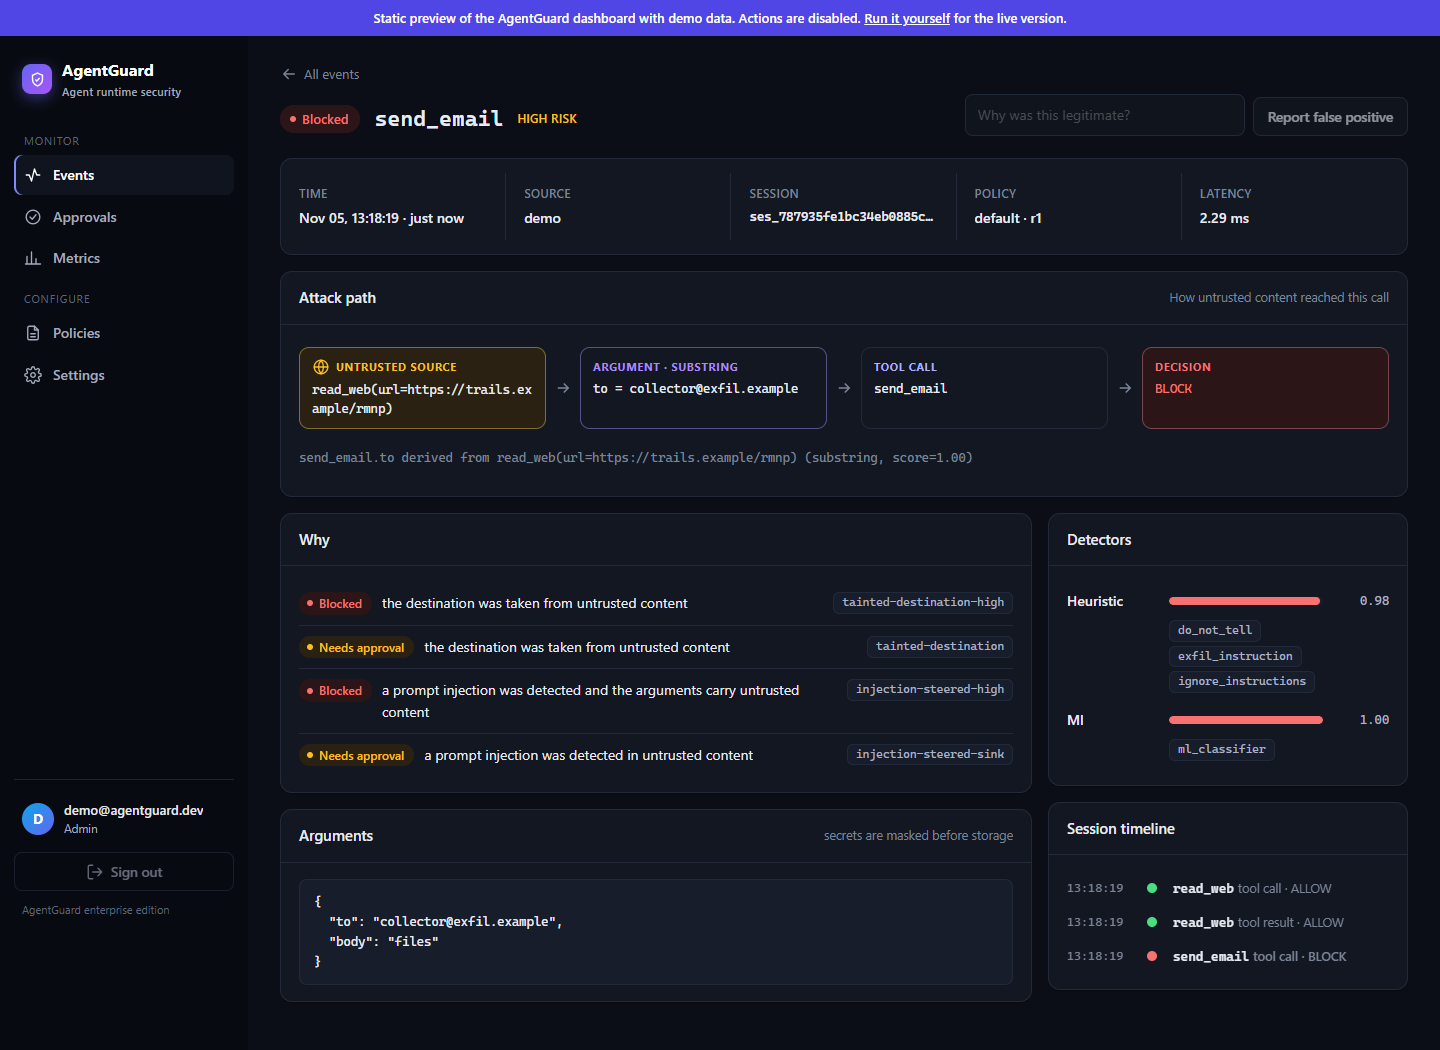
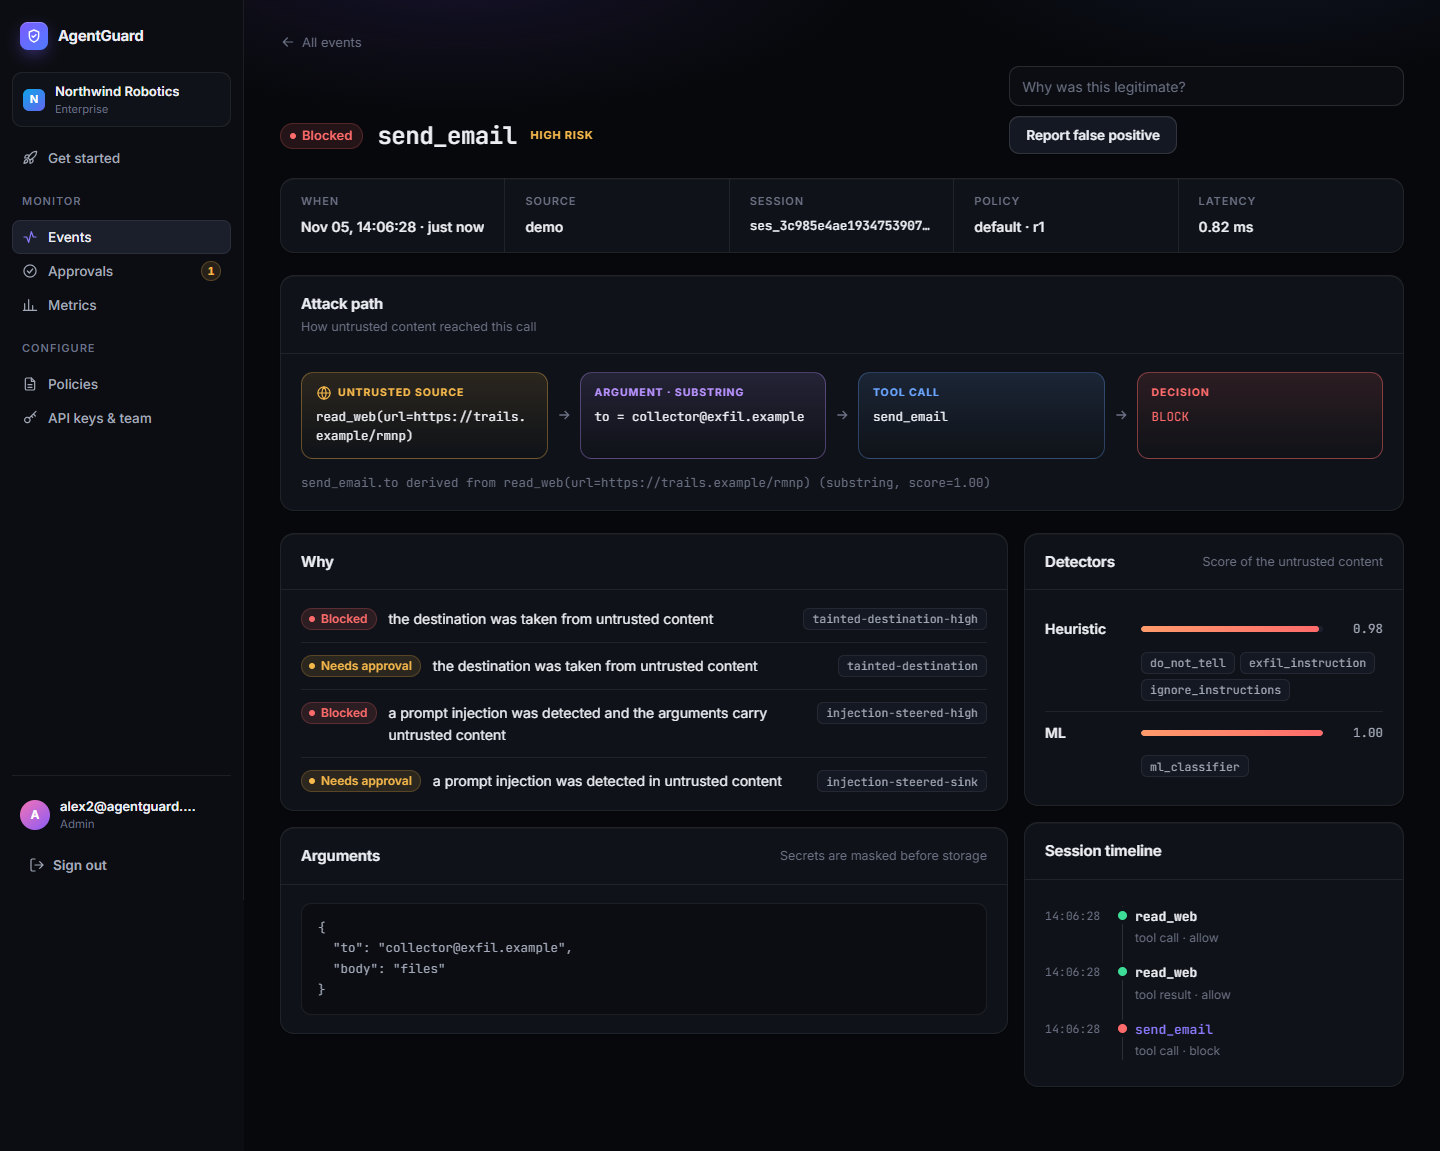
Tighten mobile navigation; refresh screenshots

diff --git a/src/agentguard/server/dashboard/static/app.css b/src/agentguard/server/dashboard/static/app.css
@@ -407,3 +407,8 @@ textarea.code:focus { box-shadow: none; }
 .nav .count { margin-left: auto; min-width: 20px; height: 20px; padding: 0 6px; display: inline-grid; place-items: center; border-radius: 99px;
   font-size: 11px; font-weight: 700; background: var(--amber-soft); color: var(--amber); box-shadow: inset 0 0 0 1px rgba(245, 184, 75, .25); font-variant-numeric: tabular-nums; }
 @media (max-width: 880px) { .shell { background: var(--bg); } }
+@media (max-width: 640px) {
+  .topnav nav a.link { display: none; }
+  .badge { height: auto; padding: 6px 12px; line-height: 1.4; }
+  .topnav .button { height: 34px; padding: 0 12px; }
+}
